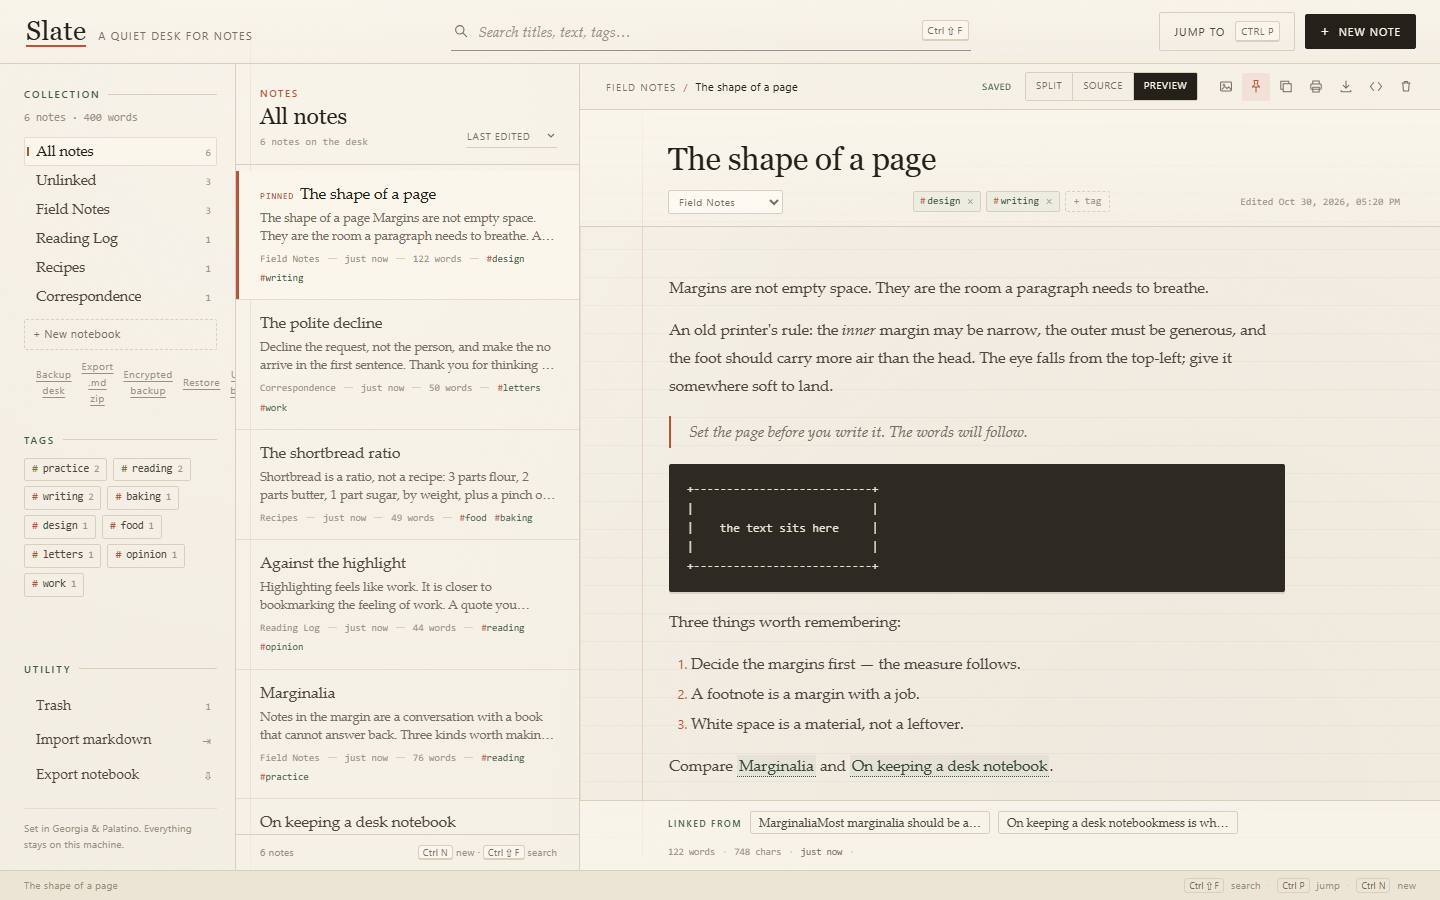
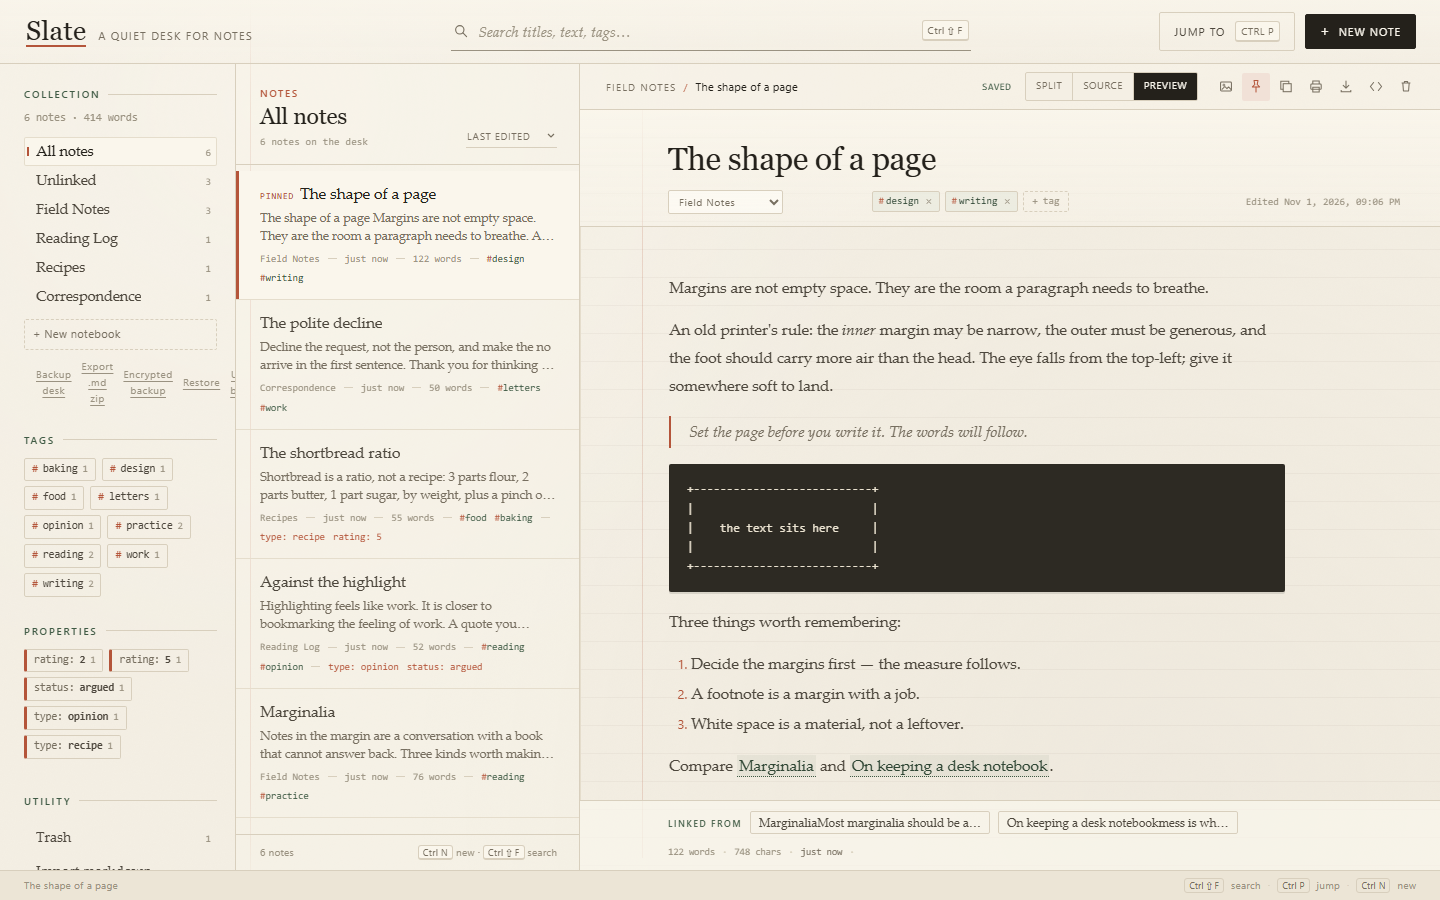
Storefront 1.17.0: properties from frontmatter

diff --git a/README.md b/README.md
@@ -17,7 +17,7 @@ A private markdown notebook with wiki links, backlinks and full-text search.
 
 </div>
 
-> **New — 1.16.0** — nested tags - #project/phase lives under #project.
+> **New — 1.17.0** — properties - a --- block at the top of a note becomes a filterable property.
 > [Changelog →](CHANGELOG.md)
 
 ---
@@ -40,6 +40,7 @@ A private markdown notebook with wiki links, backlinks and full-text search.
 | **Backlinks** | Every note shows who links here, plus plain-text mentions of its title that were never bracketed — each with an excerpt and a jump. |
 | **Search** | Full-text search with highlighted results and keyboard focus. |
 | **Tags** | Hierarchical tags: #project/phase nests under #project, a parent filter shows its children and renaming a parent renames the whole branch. Suggestions, click-to-filter and rename/merge from the rail still apply. |
+| **Properties** | Write a --- block at the top of a note and Slate reads it: scalars, numbers, booleans, [inline] and - block lists. Properties collect in the rail, filter the desk, badge every card and answer a key:value search. |
 | **Images** | Insert, paste or drop PNG/JPEG/WebP pictures; stored locally with the note. |
 | **Trash** | Trash, restore and permanent delete with a safeguard against skipping the trash. |
 | **Export/import** | Export a note as .md or HTML, a notebook as JSON, the whole desk as a ZIP of markdown files, or a passphrase-encrypted desk backup; import markdown and unlock encrypted archives. |
@@ -58,7 +59,7 @@ A private markdown notebook with wiki links, backlinks and full-text search.
 
 ## Install
 
-1. Download **Slate-1.16.0-win32-x64.zip** from [Releases](https://github.com/KHHH2312/slate/releases/latest).
+1. Download **Slate-1.17.0-win32-x64.zip** from [Releases](https://github.com/KHHH2312/slate/releases/latest).
 2. Verify it against `SHA256SUMS.txt`:
    ```powershell
    Get-FileHash .\Slate-*-win32-x64.zip -Algorithm SHA256
@@ -76,11 +77,12 @@ A private markdown notebook with wiki links, backlinks and full-text search.
 3. Link another note with [[Title]]; follow it and check the backlinks panel.
 4. Use the image button (or paste/drop) to place a picture in the note.
 5. Use Ctrl+Shift+F to search, Ctrl+P to jump, Ctrl+S to save now.
+6. Start a note with a --- block (type: meeting, rating: 4) and filter the desk from the Properties rail.
 
 ## Verified
 
-- Model/API suite: 125 checks green.
-- Browser golden proof: 60 checks green, including hierarchical tag nesting in the rail, parent/child scope counts, the print view, unlinked mentions and encrypted backup/restore.
+- Model/API suite: 147 checks green.
+- Browser golden proof: 68 checks green, including the property rail, key:value search, frontmatter parsed live while typing and hierarchical tag nesting in the rail.
 - Packaged app passes the source-parity integrity gate and ships with SHA-256 sums and a per-file manifest.
 
 ## Security and privacy
